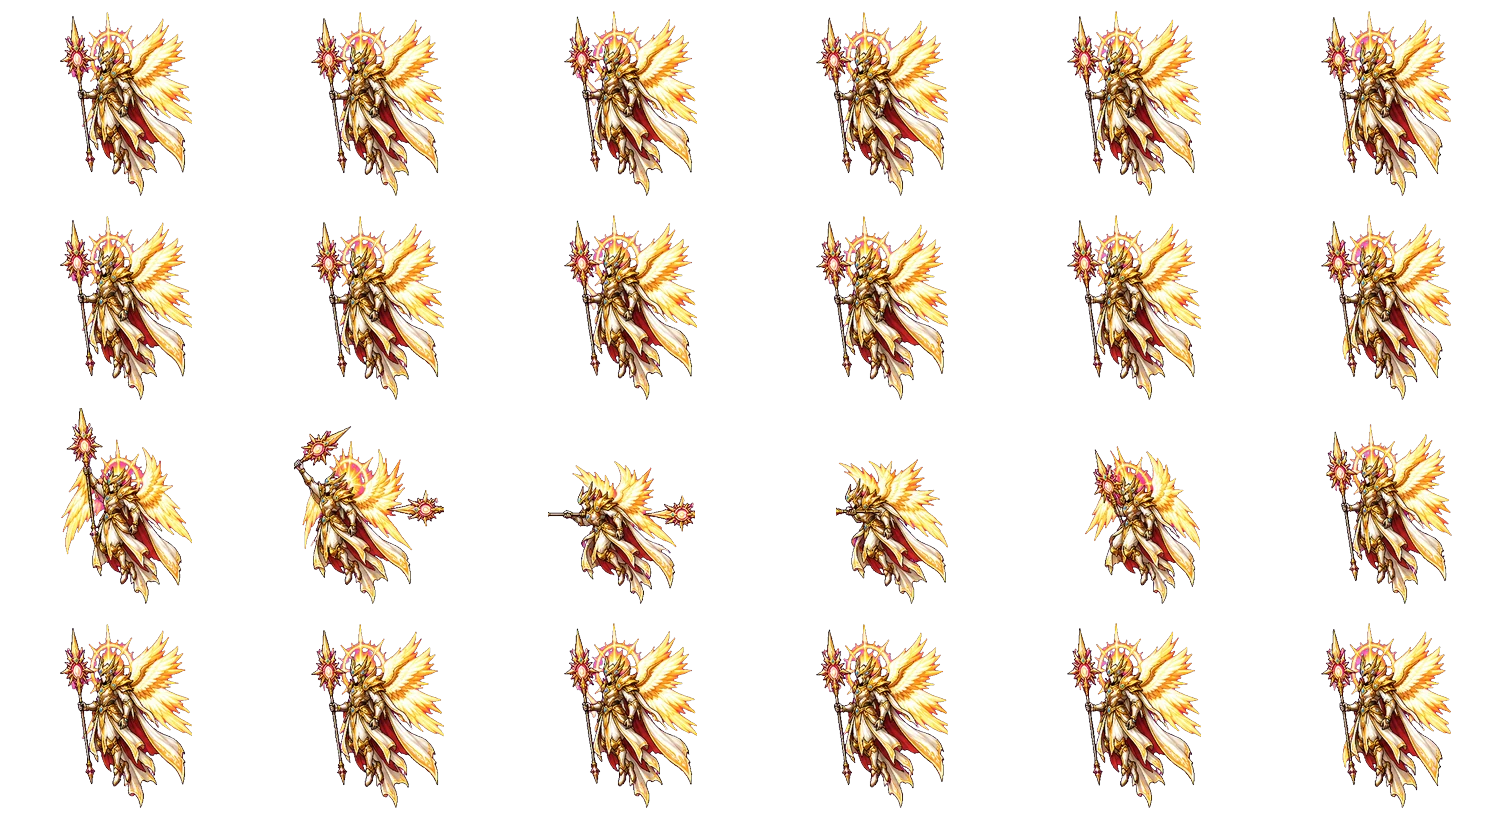
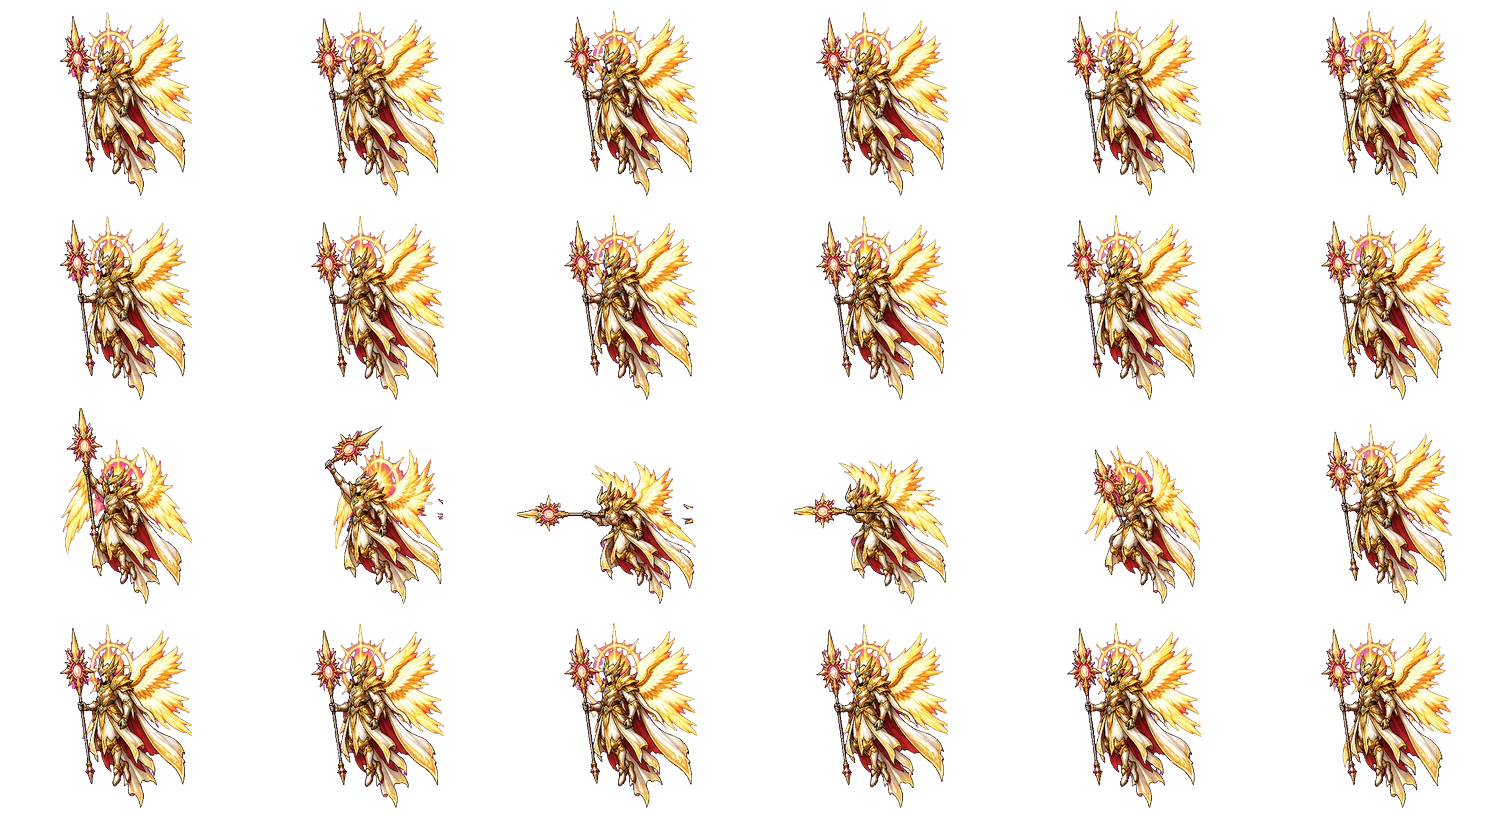
WIP b167: Ink Wraith glow, Sky Emperor spear kept whole
Claude-Session: https://claude.ai/code/session_01QmQpWu4DjinCPskbkXfnjC

Changed region(s): [[0.1865, 0.5208, 0.3108, 0.7353], [0.3419, 0.5515, 0.4663, 0.7353], [0.5284, 0.6127, 0.5595, 0.6434]]

diff --git a/src/game.src.html b/src/game.src.html
@@ -632,7 +632,7 @@ h1{color:#f2d98a;text-shadow:0 3px 0 #7a4a1c,0 6px 0 #0a1019}h2{color:#f2d98a;te
 .twflash{position:absolute;inset:0;display:grid;place-items:center;background:#fff;animation:twfl calc(1.1s/var(--sp,1)) ease-in-out both;pointer-events:none}.twflash b{font-family:var(--display);font-weight:900;font-style:italic;font-size:44px;letter-spacing:.06em;color:#0a0e22;text-shadow:0 0 18px #ffd84a}
 @keyframes twfl{0%{opacity:0}30%,70%{opacity:1}100%{opacity:0}}
 .twin .pos.r{animation:twin calc(.42s/var(--sp,1)) cubic-bezier(.2,.8,.3,1) both}@keyframes twin{from{transform:translateX(70vw);opacity:0}}
-.fig .plate .gtg{background:#3a6cff;color:#fff}
+.fig:not(.dead) .spr.glw{filter:drop-shadow(0 0 1.5px #9ff2ff) drop-shadow(0 0 5px rgba(70,215,255,.75))}.fig .plate .gtg{background:#3a6cff;color:#fff}
 @media (prefers-reduced-motion:reduce){.tsh::before,.tsh::after,.tsh.t1 i,.twscr,.twin .pos.r{animation:none}}
 @keyframes twpop{from{transform:scale(.6);opacity:0}}
 </style>
@@ -759,7 +759,7 @@ const MON={m01:{n:'Ember Imp',a:60,h:30,d:6,c:12},m02:{n:'Hellhound Pup',a:50,h:
  b04:{n:'Magma Colossus',k:'arm',a:76,h:78,d:18,c:12,boss:1,st:'smash'},b05:{n:'Obsidian Dragon',k:'ward',a:84,h:72,d:14,c:16,boss:1,m:1,st:'cast',pj:'fire'},
  // b167 Endless Tower: two monsters and one boss per zone (tw:1 keeps them out of the 500 stages); gim = the boss's trick, see GIM
  t01:{n:'Rune Sentinel',k:'arm',a:50,h:52,d:14,c:8,st:'smash',tw:1},t02:{n:'Hall Acolyte',k:'ward',a:62,h:36,d:6,c:12,m:1,st:'cast',pj:'moon',tw:1},
- t03:{n:'Chained Grimoire',k:'arm',a:58,h:46,d:14,c:14,tw:1},t04:{n:'Ink Wraith',k:'ward',a:64,h:34,d:6,c:14,m:1,st:'cast',pj:'soul',tw:1},
+ t03:{n:'Chained Grimoire',k:'arm',a:58,h:46,d:14,c:14,tw:1},t04:{n:'Ink Wraith',gl:1,k:'ward',a:64,h:34,d:6,c:14,m:1,st:'cast',pj:'soul',tw:1},
  t05:{n:'Forge Automaton',k:'arm',a:54,h:52,d:16,c:8,st:'smash',tw:1},t06:{n:'Cinder Shaman',k:'ward',a:66,h:32,d:6,c:14,m:1,st:'cast',pj:'fire',tw:1},
  t07:{n:'Glacier Knight',k:'arm',a:56,h:50,d:16,c:10,st:'smash',tw:1},t08:{n:'Storm Siren',k:'ward',a:66,h:34,d:6,c:14,m:1,st:'cast',pj:'light',tw:1},
  t09:{n:'Seraph Guard',k:'arm',a:58,h:50,d:16,c:10,tw:1},t10:{n:'Star Oracle',k:'ward',a:68,h:32,d:6,c:14,m:1,st:'cast',pj:'light',tw:1},
@@ -1601,7 +1601,7 @@ function unit(u,el,cls,attr,sp,side){const p=Math.max(0,u.hp/u.max*100),mon=u.bo
   return `<div class="pos ${side?'r':'l'}" style="left:calc(${side?100-sp[0]:sp[0]}% - var(--bw)*${(k*.65).toFixed(3)});bottom:${100-sp[1]}%;--cw:calc(var(--bw)*${k.toFixed(3)});z-index:${Math.round(sp[1])}"><button class="fig ${u.boss?'boss':''} ${u.hp<=0?'dead':''} ${cls}" id="${el}" ${attr} title="${C[u.id].n}">
     <span class="plate">${u.boss?'<b class="tagb">BOSS</b>':''}${u.taunt&&u.hp>0?`<b class="tnt">TAUNT${u.taunt>1?' '+u.taunt:''}</b>`:''}${u.gate>0&&u.hp>0?`<b class="tnt gtg nt">🛡 ×${u.gate}</b>`:''}${el[0]==='e'&&u.hp>0&&wkU(u)?`<b class="wkt ${wkU(u)} nt">${weakTxt(wkU(u))}</b>`:''}<span class="fhp"><i style="width:${p}%"></i>${u.sh>0&&u.hp>0?`<b style="width:${Math.min(100,u.sh/u.max*100)}%"></b>`:''}</span>
      <span class="st"><span class="a ${C[u.id].m?'m':''}"><img src="${ICON[MAGIC.includes(u.id)?'orb':'sword']}" alt="${atkName(u.id)}">${u.atk}</span><span class="d"><img src="${ICON.heart}" alt="HP">${Math.max(0,u.hp)}${u.sh>0&&u.hp>0?`<b class="shv">+${u.sh}</b>`:''}</span>${u.def>0?`<span class="f"><img src="${ICON.shield}" alt="DEF">${u.def}</span>`:''}</span></span>
-    <span class="sw ${side?'':'flip'}">${sprite(u.id,u.walk?'walk':'')}</span></button></div>`}
+    <span class="sw ${side?'':'flip'}">${sprite(u.id,(u.walk?'walk':'')+(C[u.id].gl?' glw':''))}</span></button></div>`}
 function draw(){
   const ac=busy?null:actor(),ord=[...bt.al.filter(a=>a.hp>0&&!a.done).map(a=>[a,'al']),...bt.en.filter(e=>e.hp>0).map(e=>[e,'en'])];
   view(`<div class="arena px ${bt.tw&&bt.in?'twin':''}">${bt.tw?twBg(bt.tw):bgLayers(bt.n)}

diff --git a/tools/towermon.py b/tools/towermon.py
@@ -16,13 +16,20 @@ def rows2(rgba):
     al=rgba[...,3];rb=bands(al,1)
     if len(rb)==2:return rb
     p=(al>40).sum(1).astype(float);H=len(p);lo,hi=int(H*.4),int(H*.6);y=lo+int(np.argmin(nd.uniform_filter1d(p,9)[lo:hi]));ys=np.where(p>3)[0];return[(ys.min(),y),(y,ys.max()+1)]
-def slices(rgba,y0,y1,atk):
+# STEAL: parts of a frame that reach over the cut into the previous frame's slice (a levelled spear), as boxes in the source picture: {id:{frame:[(x0,x1,y0,y1),...]}}
+STEAL={'tb5':{2:[(470,505,729,746),(505,566,700,776)],3:[(765,805,729,746),(805,846,700,776)]}}
+def slices(rgba,y0,y1,atk,steal=None):
+    steal=steal or {};Y=max(0,y0-4)
     y0=max(0,y0-4);y1=min(rgba.shape[0],y1+4);band=rgba[y0:y1].copy();W=band.shape[1];p=nd.uniform_filter1d((band[...,3]>40).sum(0).astype(float),7);cuts=[0]
     for k in range(1,6):
         c=round(k*W/6);lo,hi=c-110,c+110;seg=p[lo:hi];m=seg.min();cand=np.where(seg<=m+2)[0]+lo;cuts.append(int(cand[np.argmin(abs(cand-c))]))
-    cuts.append(W);out=[]
+    cuts.append(W);out=[];src=band.copy()
+    for i,R in steal.items():
+        for x0,x1,ya,yb in R:band[ya-Y:yb-Y,x0:min(x1,cuts[i])]=0   # the previous frame gives the box up
     for i in range(6):
-        c=band[:,cuts[i]:cuts[i+1]].copy();m=c[...,3]>40;lab,n=nd.label(m,structure=np.ones((3,3)));sz=nd.sum(m,lab,range(1,n+1));big=int(np.argmax(sz))+1;ys,xs=np.where(lab==big);bb=(xs.min(),xs.max(),ys.min(),ys.max());w=c.shape[1]
+        R=steal.get(i,[]);s0=min([cuts[i]]+[r[0] for r in R]);c=band[:,s0:cuts[i+1]].copy();c[:,:cuts[i]-s0]=0
+        for x0,x1,ya,yb in R:c[ya-Y:yb-Y,x0-s0:min(x1,cuts[i])-s0]=src[ya-Y:yb-Y,x0:min(x1,cuts[i])]
+        m=c[...,3]>40;lab,n=nd.label(m,structure=np.ones((3,3)));sz=nd.sum(m,lab,range(1,n+1));big=int(np.argmax(sz))+1;ys,xs=np.where(lab==big);bb=(xs.min(),xs.max(),ys.min(),ys.max());w=c.shape[1]
         for j in range(1,n+1):
             if j==big:continue
             yy,xx=np.where(lab==j);edge=xx.min()<=1 or xx.max()>=w-2
@@ -33,7 +40,7 @@ def slices(rgba,y0,y1,atk):
 # sheets whose attack row cannot be cut cleanly (a beam or blast painted across two frames): the attack row repeats the idle frames until a redrawn sheet arrives; the game still lunges and plays its own hit effect
 ATK_IDLE=set()
 def build3(src,name,target_h,maxw=236):
-    rgba=key(Image.open(U+src));rb=rows2(rgba);idle,c1=slices(rgba,*rb[0],0);atk,c2=slices(rgba,*rb[1],1)
+    rgba=key(Image.open(U+src));rb=rows2(rgba);idle,c1=slices(rgba,*rb[0],0);atk,c2=slices(rgba,*rb[1],1,STEAL.get(name))
     if name in ATK_IDLE:atk=idle
     bh=np.median([b[3]-b[2] for _,b in idle]);bw=np.median([b[1]-b[0] for _,b in idle]);sc=min(target_h/bh,maxw/bw);right=CW/2+bw*sc/2
     def place(fr,by_right):
